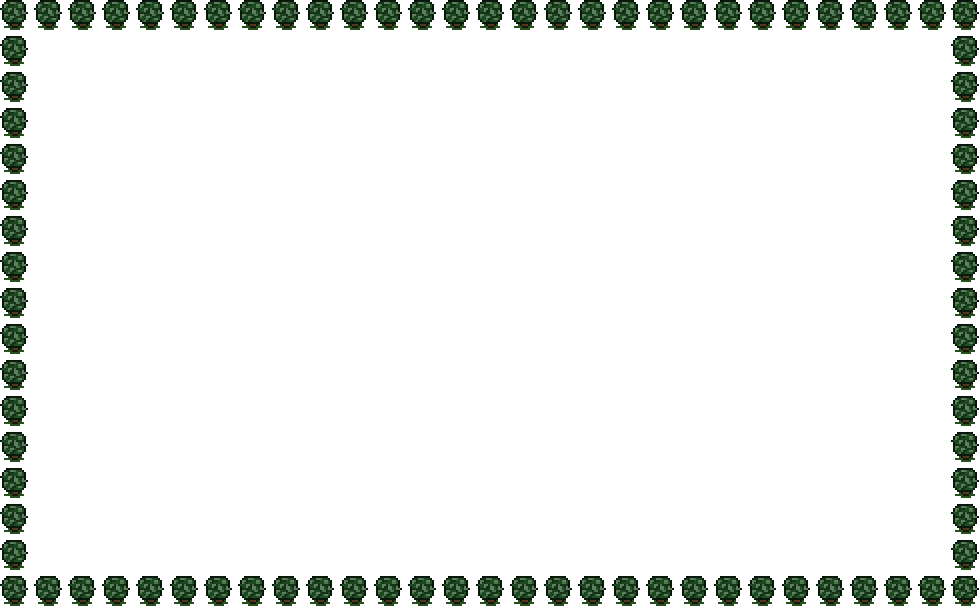
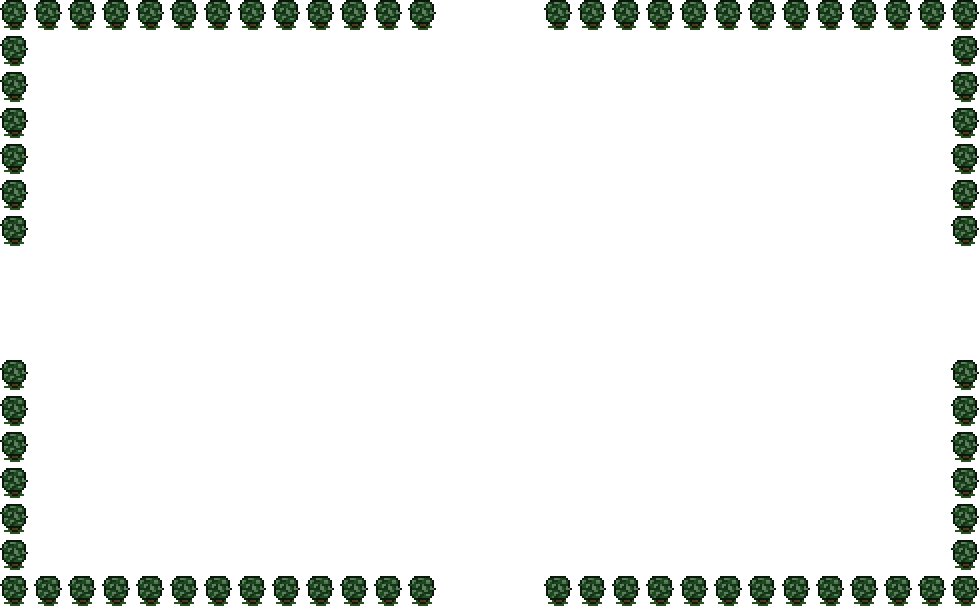
4 gates monsters can spawn from

diff --git a/js/main.js b/js/main.js
@@ -24,10 +24,17 @@ var monster = {};
 monster.height = 32
 monster.width = 30;
 monster.speed = 50;
-monster.x = 100;
-monster.y = 100;
+monster.x = -100;
+monster.y = -100;
 monster.xDirection = monster.speed;
 monster.yDirection = monster.speed;
+
+var gates = new Array(
+		new Array(canvas.width / 2, 0),
+		new Array(canvas.width, canvas.height / 2),
+		new Array(canvas.width / 2, canvas.height),
+		new Array(0, canvas.height / 2)
+	);
 
 var monstersSlain = 0;
 
@@ -61,9 +68,14 @@ var moveHero = function (modifier) {
 var slayMonster = function() {
 	if((hero.x <= (monster.x + 32)) && (monster.x <= (hero.x + 32)) && (hero.y <= (monster.y + 32)) && (monster.y <= (hero.y + 32))) {
 		++monstersSlain;
-		monster.x = 100;
-		monster.y = 100;
+		spawnMonster();
 	}
+};
+
+var spawnMonster = function() {
+	gate = Math.floor(Math.random() * 4) + 1;
+	monster.x = gates[gate - 1][0];
+	monster.y = gates[gate - 1][1];
 };
 
 var moveMonster = function (modifier) {
@@ -112,5 +124,6 @@ var main = function () {
 };
 
 var then = Date.now();
+spawnMonster();
 setInterval(main, 1);
 setInterval(updateMonsterDirection, 1750);
